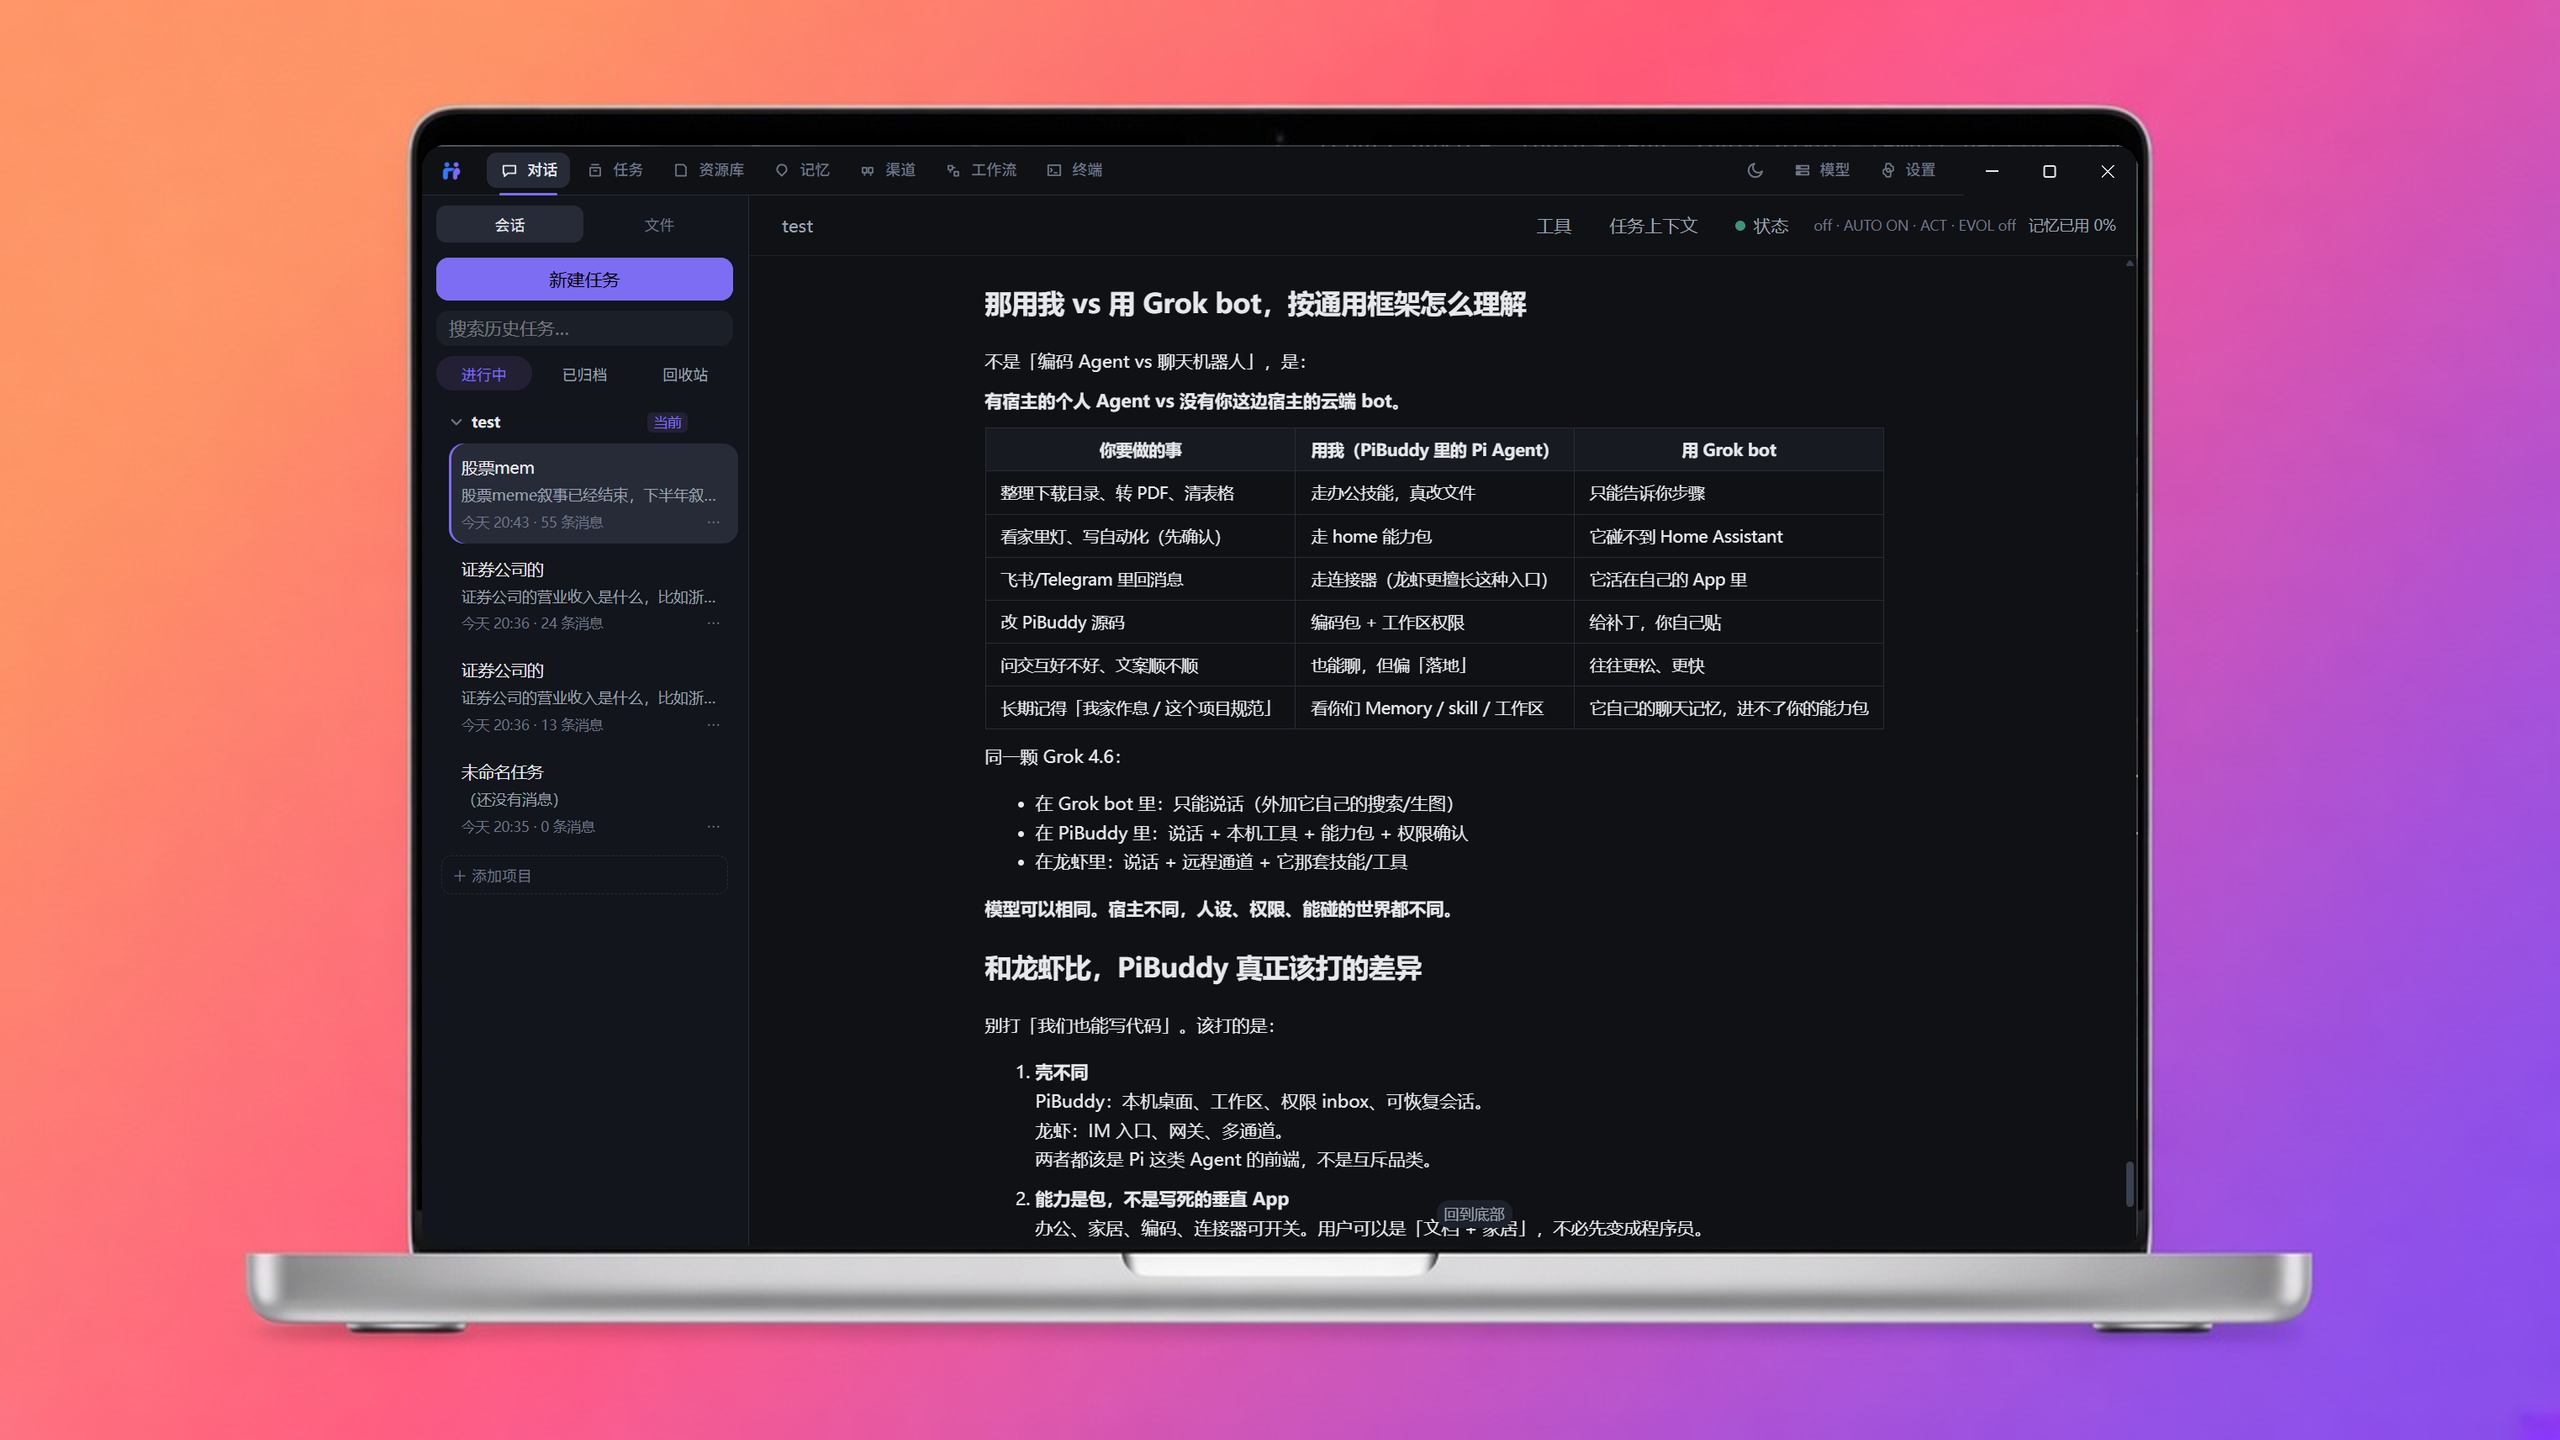
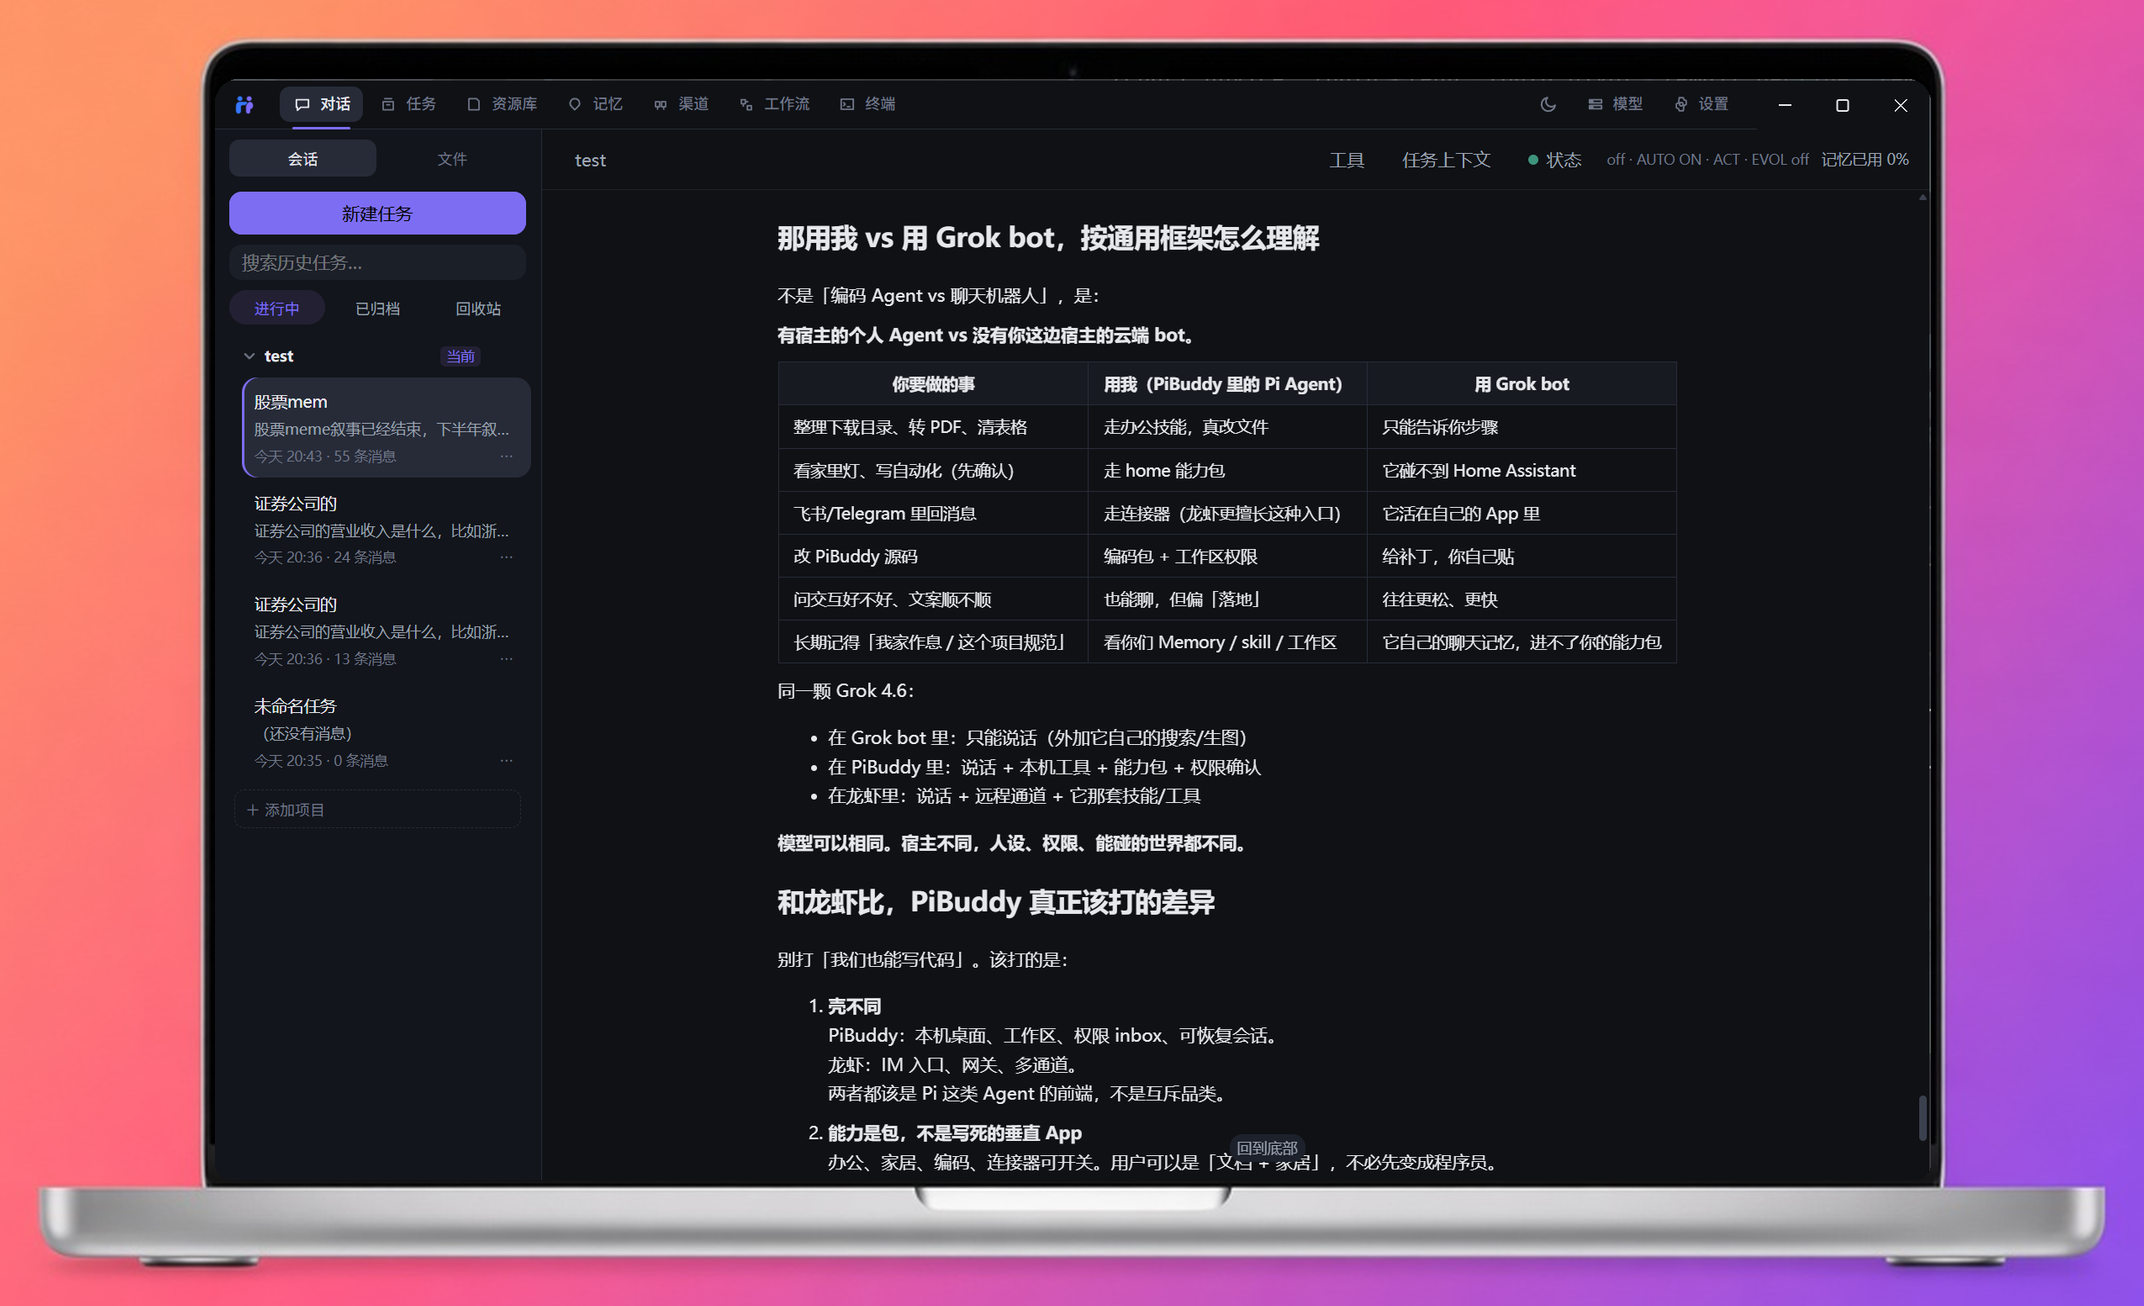
Tighten the laptop product shot so it fills the hero instead of floating in padding.

diff --git a/pibuddy-docs/docs/.vitepress/theme/style.css b/pibuddy-docs/docs/.vitepress/theme/style.css
@@ -91,13 +91,12 @@
   flex-wrap: wrap;
 }
 .pb-hero__shot {
-  display: flex;
-  justify-content: center;
-  margin: 36px auto 0;
+  display: block;
+  margin: 28px -8px 0;
 }
 .pb-hero__shot img {
   display: block;
-  width: min(100%, 820px);
+  width: 100%;
   height: auto;
 }
 .pb-btn {

diff --git a/pibuddy-docs/tools/compose-hero.py b/pibuddy-docs/tools/compose-hero.py
@@ -39,6 +39,20 @@ def detect_screen(gray: np.ndarray) -> tuple[int, int, int, int]:
     return x0, y0, x1, y1
 
 
+def crop_around_laptop(im: Image.Image, pad: int = 40) -> Image.Image:
+    arr = np.array(im.convert("RGB"))
+    chroma = arr.max(axis=2) - arr.min(axis=2)
+    laptop = (chroma < 45) | (arr.max(axis=2) < 35)
+    ys, xs = np.where(laptop)
+    if xs.size == 0:
+        return im
+    x0 = max(0, int(xs.min()) - pad)
+    y0 = max(0, int(ys.min()) - pad)
+    x1 = min(im.size[0], int(xs.max()) + 1 + pad)
+    y1 = min(im.size[1], int(ys.max()) + 1 + pad)
+    return im.crop((x0, y0, x1, y1))
+
+
 def cover_fit(src: Image.Image, width: int, height: int) -> Image.Image:
     sw, sh = src.size
     scale = max(width / sw, height / sh)
@@ -75,9 +89,10 @@ def main() -> None:
     screen = Image.new("RGBA", (sw, sh))
     screen.paste(fitted)
     frame.paste(screen, (x0, y0), mask)
+    out = crop_around_laptop(frame.convert("RGB"))
     OUT.parent.mkdir(parents=True, exist_ok=True)
-    frame.convert("RGB").save(OUT, "PNG", compress_level=1)
-    print(f"wrote {OUT} {frame.size[0]}x{frame.size[1]}")
+    out.save(OUT, "PNG", compress_level=1)
+    print(f"wrote {OUT} {out.size[0]}x{out.size[1]}")
 
 
 if __name__ == "__main__":
